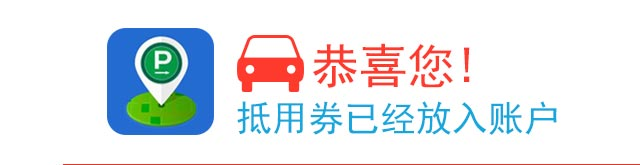
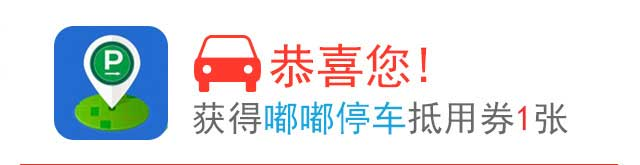
hongbao

Changed region(s): [[0.0625, 0.1515, 0.9062, 0.8485], [0.0312, 0.9697, 0.0938, 1.0], [0.9688, 0.9697, 1.0, 1.0]]

diff --git a/development/userhtml/js/manager.js b/development/userhtml/js/manager.js
@@ -242,6 +242,8 @@ window.sysmanager = {
                     ,btreg:'[name=btreg]'
                     ,msg:'[name=msg]'
                     ,btclose:'[name=btclose]'
+                    ,title1:'h1'
+                    ,title2:'hr'
                 }
                 ,iscroll:null
                 ,ishead:false       //是否带了一个导航栏
@@ -261,12 +263,21 @@ window.sysmanager = {
                 ,c_init:function(){
                     var me = this;
                 }
-                ,c_show:function(callback, msg,canclose){
-                    this.dom.msg.html(msg || "首次使用嘟嘟停车需要注册你的手机号和车牌号");
+                ,c_show:function(callback, msg,canclose,ext){
+                    this.dom.msg.html(msg || "首次使用嘟嘟停车需要注册你的手机号");
                     if(!!canclose){
                         this.dom.btclose.show();
                     }else{
                         this.dom.btclose.hide();
+                    }
+                    if(ext){
+                    	if("reg_text" in ext){
+                    		this.dom.btreg.html(ext["reg_text"]);
+                    	}
+                    	if("no_title" in ext){
+                    		this.dom.title1.hide();
+                    		this.dom.title2.hide();
+                    	}
                     }
                     this.callback = callback;
                     this.context.show();
@@ -288,8 +299,11 @@ window.sysmanager = {
                     this.dom.userpanel_chepai.blur();
                     if('' == phone){
                         sysmanager.alert('手机号不能为空!');
-                    }else{
+                    }else if(!(/^1[3|4|5|8][0-9]\d{8}$/.test(phone))){
+				            		sysmanager.alert('请输入正确的手机号!');
+				            }else{
                         sysmanager.login(phone,chepai,function(){
+                        	sysmanager.alert();
                             me.c_quit();
                         });
                     }
@@ -302,9 +316,12 @@ window.sysmanager = {
                     this.dom.userpanel_phone.blur();
                     this.dom.userpanel_chepai.blur();
                     if('' == phone){
-                        alert('手机号不能为空!');
-                    }else{
+                        sysmanager.alert('手机号不能为空!');
+                    }if(!(/^1[3|4|5|8][0-9]\d{8}$/.test(phone))){
+				            		sysmanager.alert('请输入正确的手机号!');
+				            }else{
                         sysmanager.login(phone,chepai,function(){
+                        	sysmanager.alert();
                             me.c_quit();
                         });
                     }
@@ -340,8 +357,8 @@ window.sysmanager = {
             };
         ui.init($('#reg_dialog_pagecontainer'));
 
-        return function(callback, msg,canclose){    //callback:登录成功的回调，msg 定制提示信息，否则使用默认，canclose是否允许关闭
-            ui.c_show(callback, msg,canclose);
+        return function(callback, msg,canclose,ext){    //callback:登录成功的回调，msg 定制提示信息，否则使用默认，canclose是否允许关闭
+            ui.c_show(callback, msg,canclose,ext);
         }
     })()
     ,couponUI:function(code, fromid, callback){           //弹出卡券窗口 如果没有callback则使用全屏窗口
@@ -419,10 +436,14 @@ window.sysmanager = {
                alertpanel.hide();
            });
            var obj = function(msg, title){
+           	if(msg){
                var t = title || '错误信息';
                titledom.html(t);
                msgdom.html(msg);
                alertpanel.show();
+             }else{
+             	alertpanel.hide();
+            }
            }
            return obj;
        })()

diff --git a/development/userhtml/views/couponget/couponget.js b/development/userhtml/views/couponget/couponget.js
@@ -16,7 +16,10 @@ function ui_couponget(){
             ,infopanel:{
                 panel:'[name=panel_info]'
                 ,btget:'[name=panel_info] [name=btget]'
-
+								,info:'[name=panel_info] [name=money]'
+                ,row0:'[name=panel_info] [name=row0]'
+                ,row1:'[name=panel_info] [name=row1]'
+                ,quan0:'[name=panel_info] [name=quan0]'
             }
             ,resultpanel:{
                 panel:'[name=panel_result]'
@@ -70,6 +73,29 @@ function ui_couponget(){
             this.dom.infopanel.panel.show();
             this.dom.nonepanel.panel.hide();
             this.dom.resultpanel.panel.hide();
+            if('-1' == gift.t){
+                this.dom.infopanel.row1.show();
+                this.dom.infopanel.row0.hide();
+                this.dom.infopanel.quan0.hide();
+                //设置分享
+                window.Myweixinobj.setDesc('你停车，我买单，停车只要1元！').setTitle('嘟嘟停车，请你停车').initBind();
+            }else{
+                this.dom.infopanel.row1.hide();
+                if(gift.m[0] == gift.m[1]){
+                	this.dom.infopanel.row0.show();
+                	this.dom.infopanel.quan0.hide();
+                	this.dom.infopanel.info.html(gift.m[0]);
+                	//根据文字修正位置
+                	if(gift.m[0] >= 10){
+                		this.dom.infopanel.info.css("width","120");
+                	}else{
+                		this.dom.infopanel.info.css("width","80");
+                	}
+                }else{
+                	this.dom.infopanel.row0.hide();
+                	this.dom.infopanel.quan0.show();
+                }
+            }
         }
         ,c_showResultpanel:function(result){        //显示领取成功的卡券
             this.dom.infopanel.panel.hide();
@@ -87,6 +113,12 @@ function ui_couponget(){
                 this.dom.resultpanel.row1.hide();
                 this.dom.resultpanel.row0.show();
                 this.dom.resultpanel.info.html(result.data.coupon.m);
+                //根据文字修正位置
+              	if(result.data.coupon.m >= 10){
+              		this.dom.resultpanel.info.css("width","120");
+              	}else{
+              		this.dom.resultpanel.info.css("width","80");
+              	}
             }
         }
         ,c_showNonepanel:function(result){          //显示领取卡券失败界面
@@ -155,7 +187,7 @@ function ui_couponget(){
                 if('100' == result.code+''){        //没有登录
                         sysmanager.loginUI(function(){
                             me.m_get(code,fromid,fn);
-                        },'请输入你在<b>嘟嘟停车</b>的注册手机号');
+                        },'手机号就是您在<b>嘟嘟停车</b>的账号',false,{"reg_text":"抵用劵放入账户","no_title":1});
                 }else{
                     fn && fn(result);
                 }

diff --git a/development/userhtml/views/couponget/couponget.html b/development/userhtml/views/couponget/couponget.html
@@ -10,15 +10,17 @@
                 </li>
             </ul>
             <div class="title" ></div>
-            <div class="quan0"></div>
+            <div class="quan0" name='quan0' style="display:none"></div>
+            <div class="quan" name='row0' style="display:none"><span name='money'>1</span></div>
+            <div class="quan" name='row1' style="display:none"><b>一元停车</b><p>你停车，我买单，停车只要1元！</p></div>
             <div name='btget' class="btget"></div>
         </div>
         <div class="panel_result" name=panel_result style="display: none">
-            <div class="title" ></div>
+            <div class="title_n" ></div>
             <div class="quan" name='row0'><span name='money'>1</span></div>
             <div class="quan" name='row1'><b>一元停车</b><p>你停车，我买单，停车只要1元！</p></div>
             <div class="zhiwen">
-                <p>具体使用规则，请登录<b style="color: #2770D9;">嘟嘟停车</b>后查看<span style="color: red">↓↓↓</span></p>
+                <p style="font-size:16px">关注<b style="color: #2770D9;">嘟嘟停车公众号</b>，随时使用抵用劵<span style="color: red">↓↓↓</span></p>
                 <img name='zhiwenimg' src="">
             </div>
         </div>

diff --git a/development/userhtml/css/main.css b/development/userhtml/css/main.css
@@ -791,7 +791,7 @@ html{
     }
    #couponget_html .btget{
        /*background-image: url(../img/hongbao/quan_4.png);*/
-       background-image: url(http://yomant.qiniudn.com/duduchequan_4.png);
+       background-image: url(http://7xispd.com1.z0.glb.clouddn.com/user/img/quan_4.png);
        width: 102px;
        height: 102px;
        position: absolute;
@@ -867,6 +867,18 @@ html{
    #couponget_html .title{
        /*background-image: url(../img/hongbao/quan_1.jpg);*/
        background-image: url(http://yomant.qiniudn.com/duduchequan_1.jpg);
+       width: 320px;
+       height: 82px;
+       position: absolute;
+       left: 0;
+       right: 0;
+       margin: 0 auto;
+       top: 0;
+       background-size: 100% 100%;
+   }
+   #couponget_html .title_n{
+       /*background-image: url(../img/hongbao/quan_1.jpg);*/
+       background-image: url(http://7xispd.com1.z0.glb.clouddn.com/user/img/quan_1_n.jpg);
        width: 320px;
        height: 82px;
        position: absolute;

diff --git a/development/userhtml/views/reg/reg.js b/development/userhtml/views/reg/reg.js
@@ -75,7 +75,7 @@ function ui_reg(){
             this.dom.userpanel_phone.blur();
             this.dom.userpanel_chepai.blur();
             if('' == phone){
-                alert('手机号不能为空!');
+                sysmanager.alert('手机号不能为空!');
             }else{
                 sysmanager.login(phone,chepai,function(){
                     me.c_quit();

diff --git a/development/userhtml/views/coupon/coupon.html b/development/userhtml/views/coupon/coupon.html
@@ -62,6 +62,12 @@
         #coupon_html .pailist>li.use>b{
             display: block;
         }
+        #coupon_html .pailist>li.use>.money>span{
+            color: #ccc;
+        }
+        #coupon_html .pailist>li.use>.money>b{
+            color: #ccc;
+        }
     </style>
 
     <ul class="mui-table-view" style="background-image: none">
